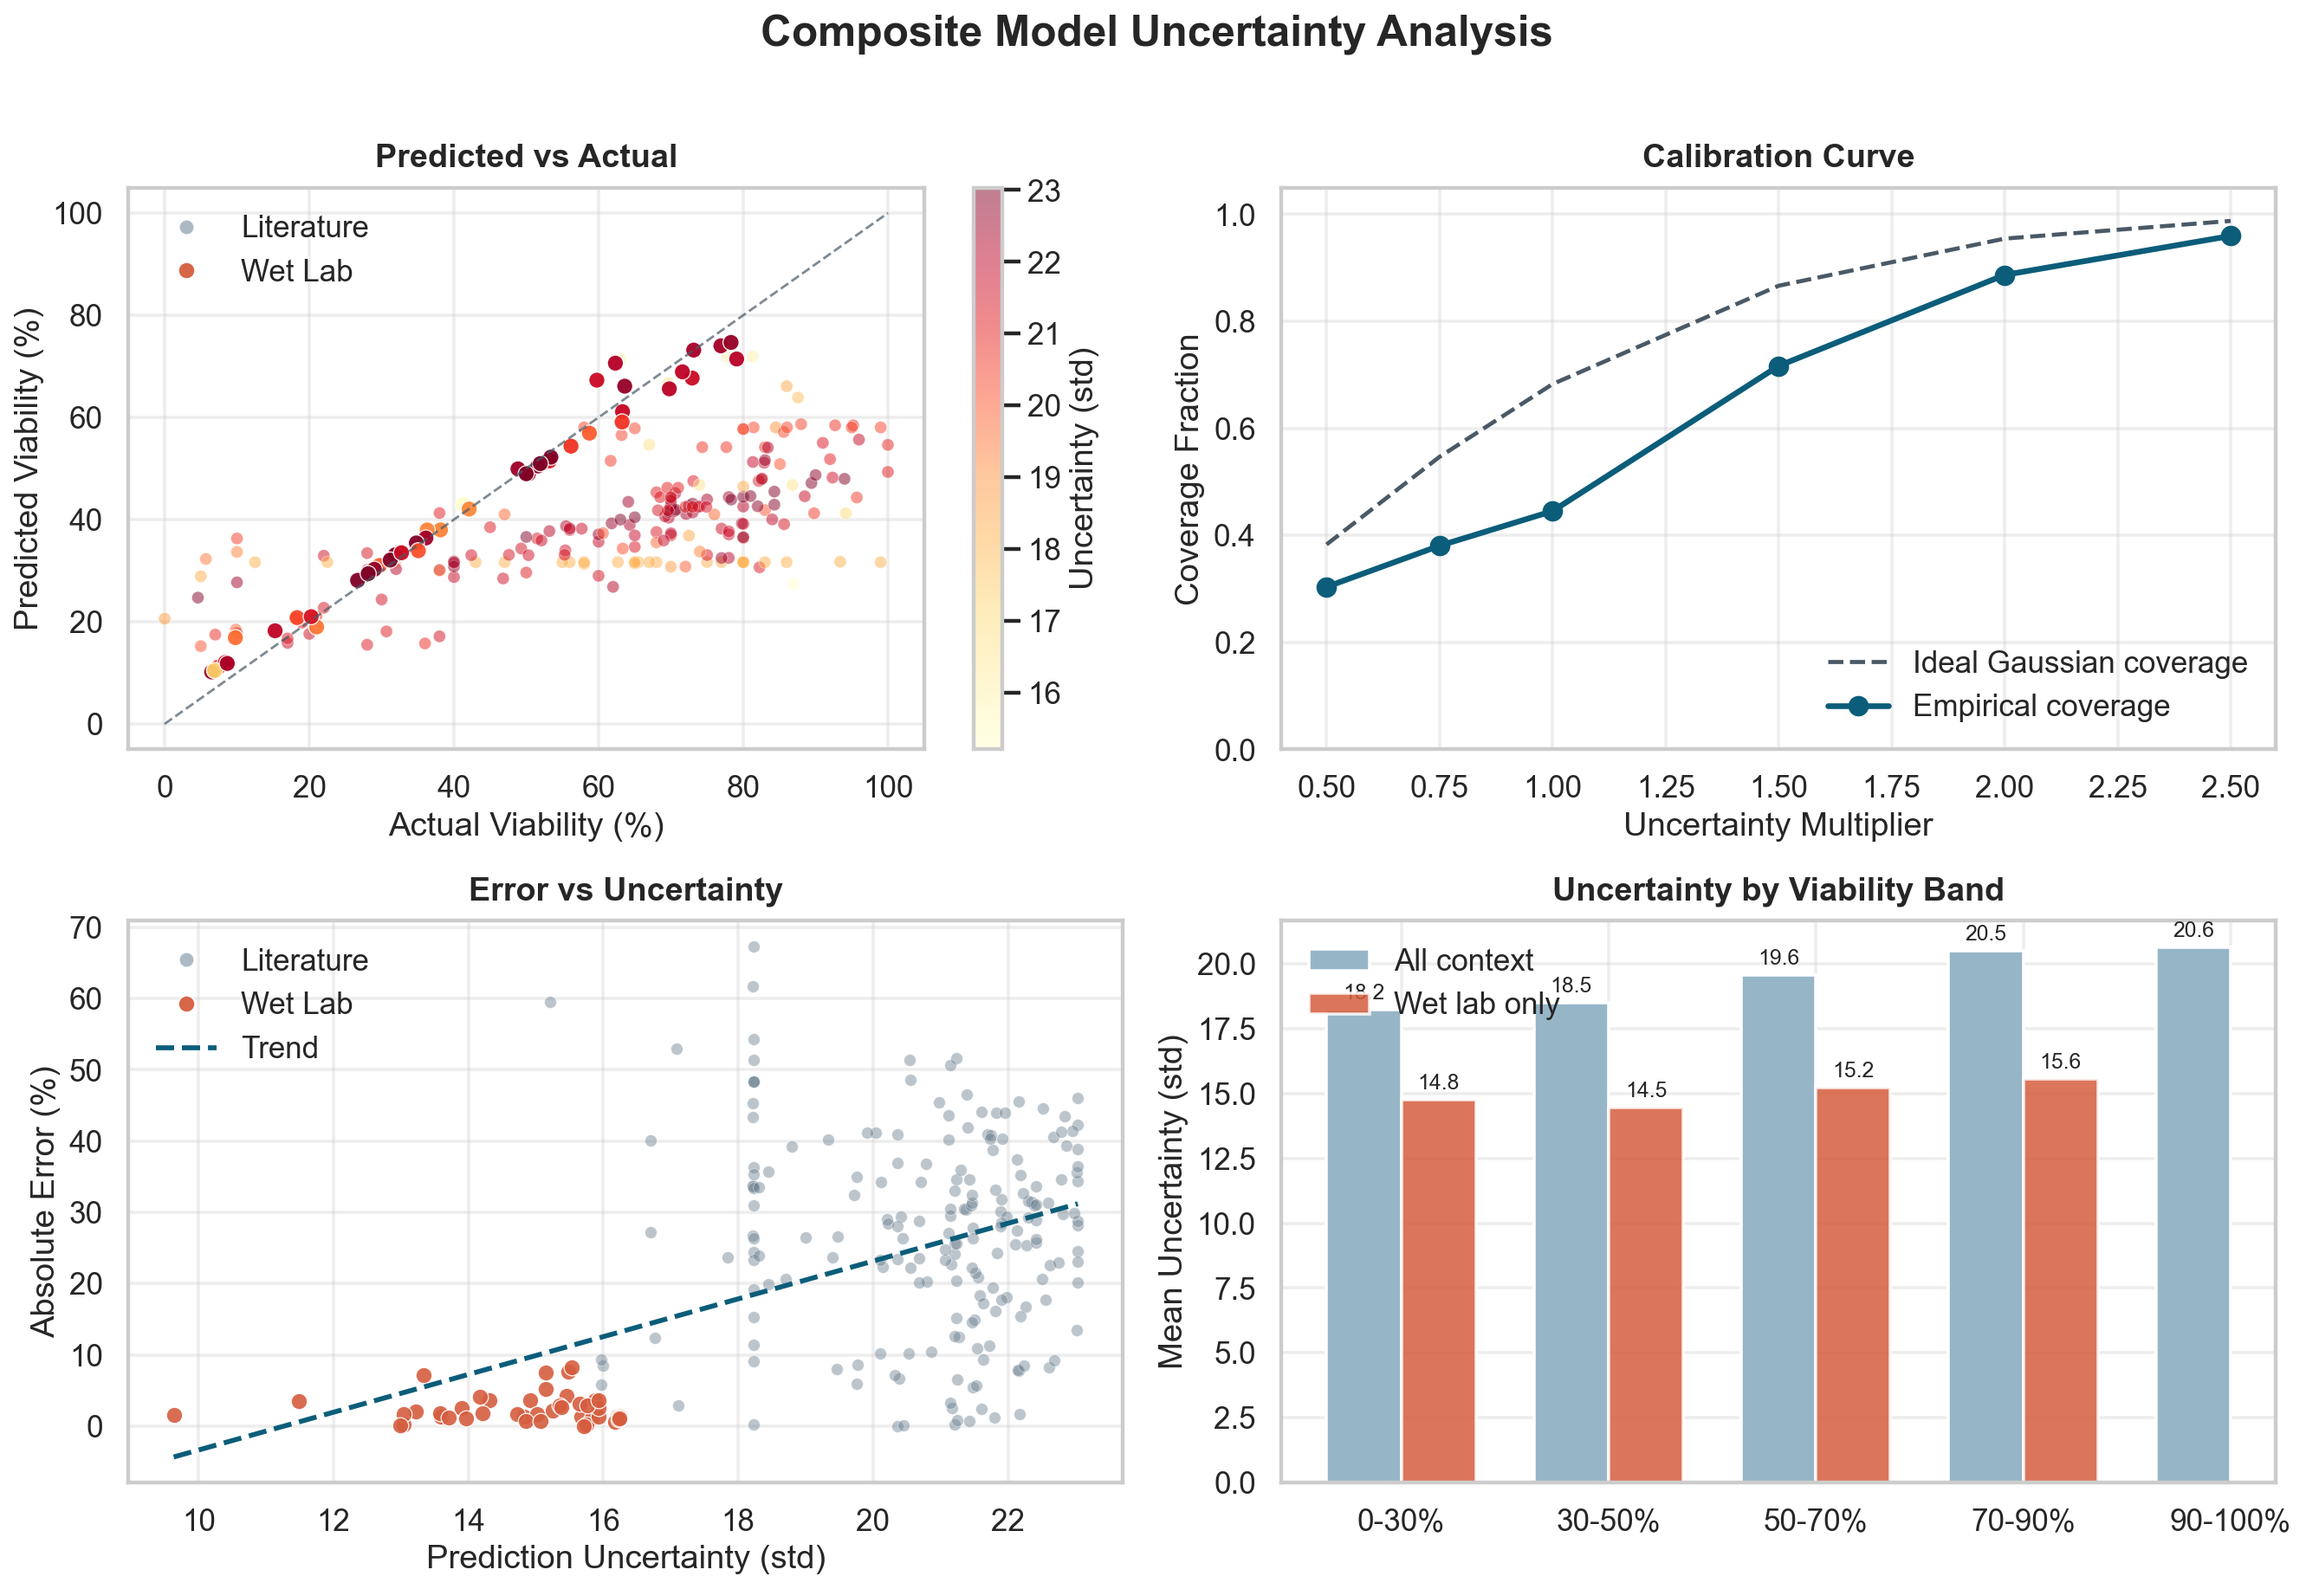
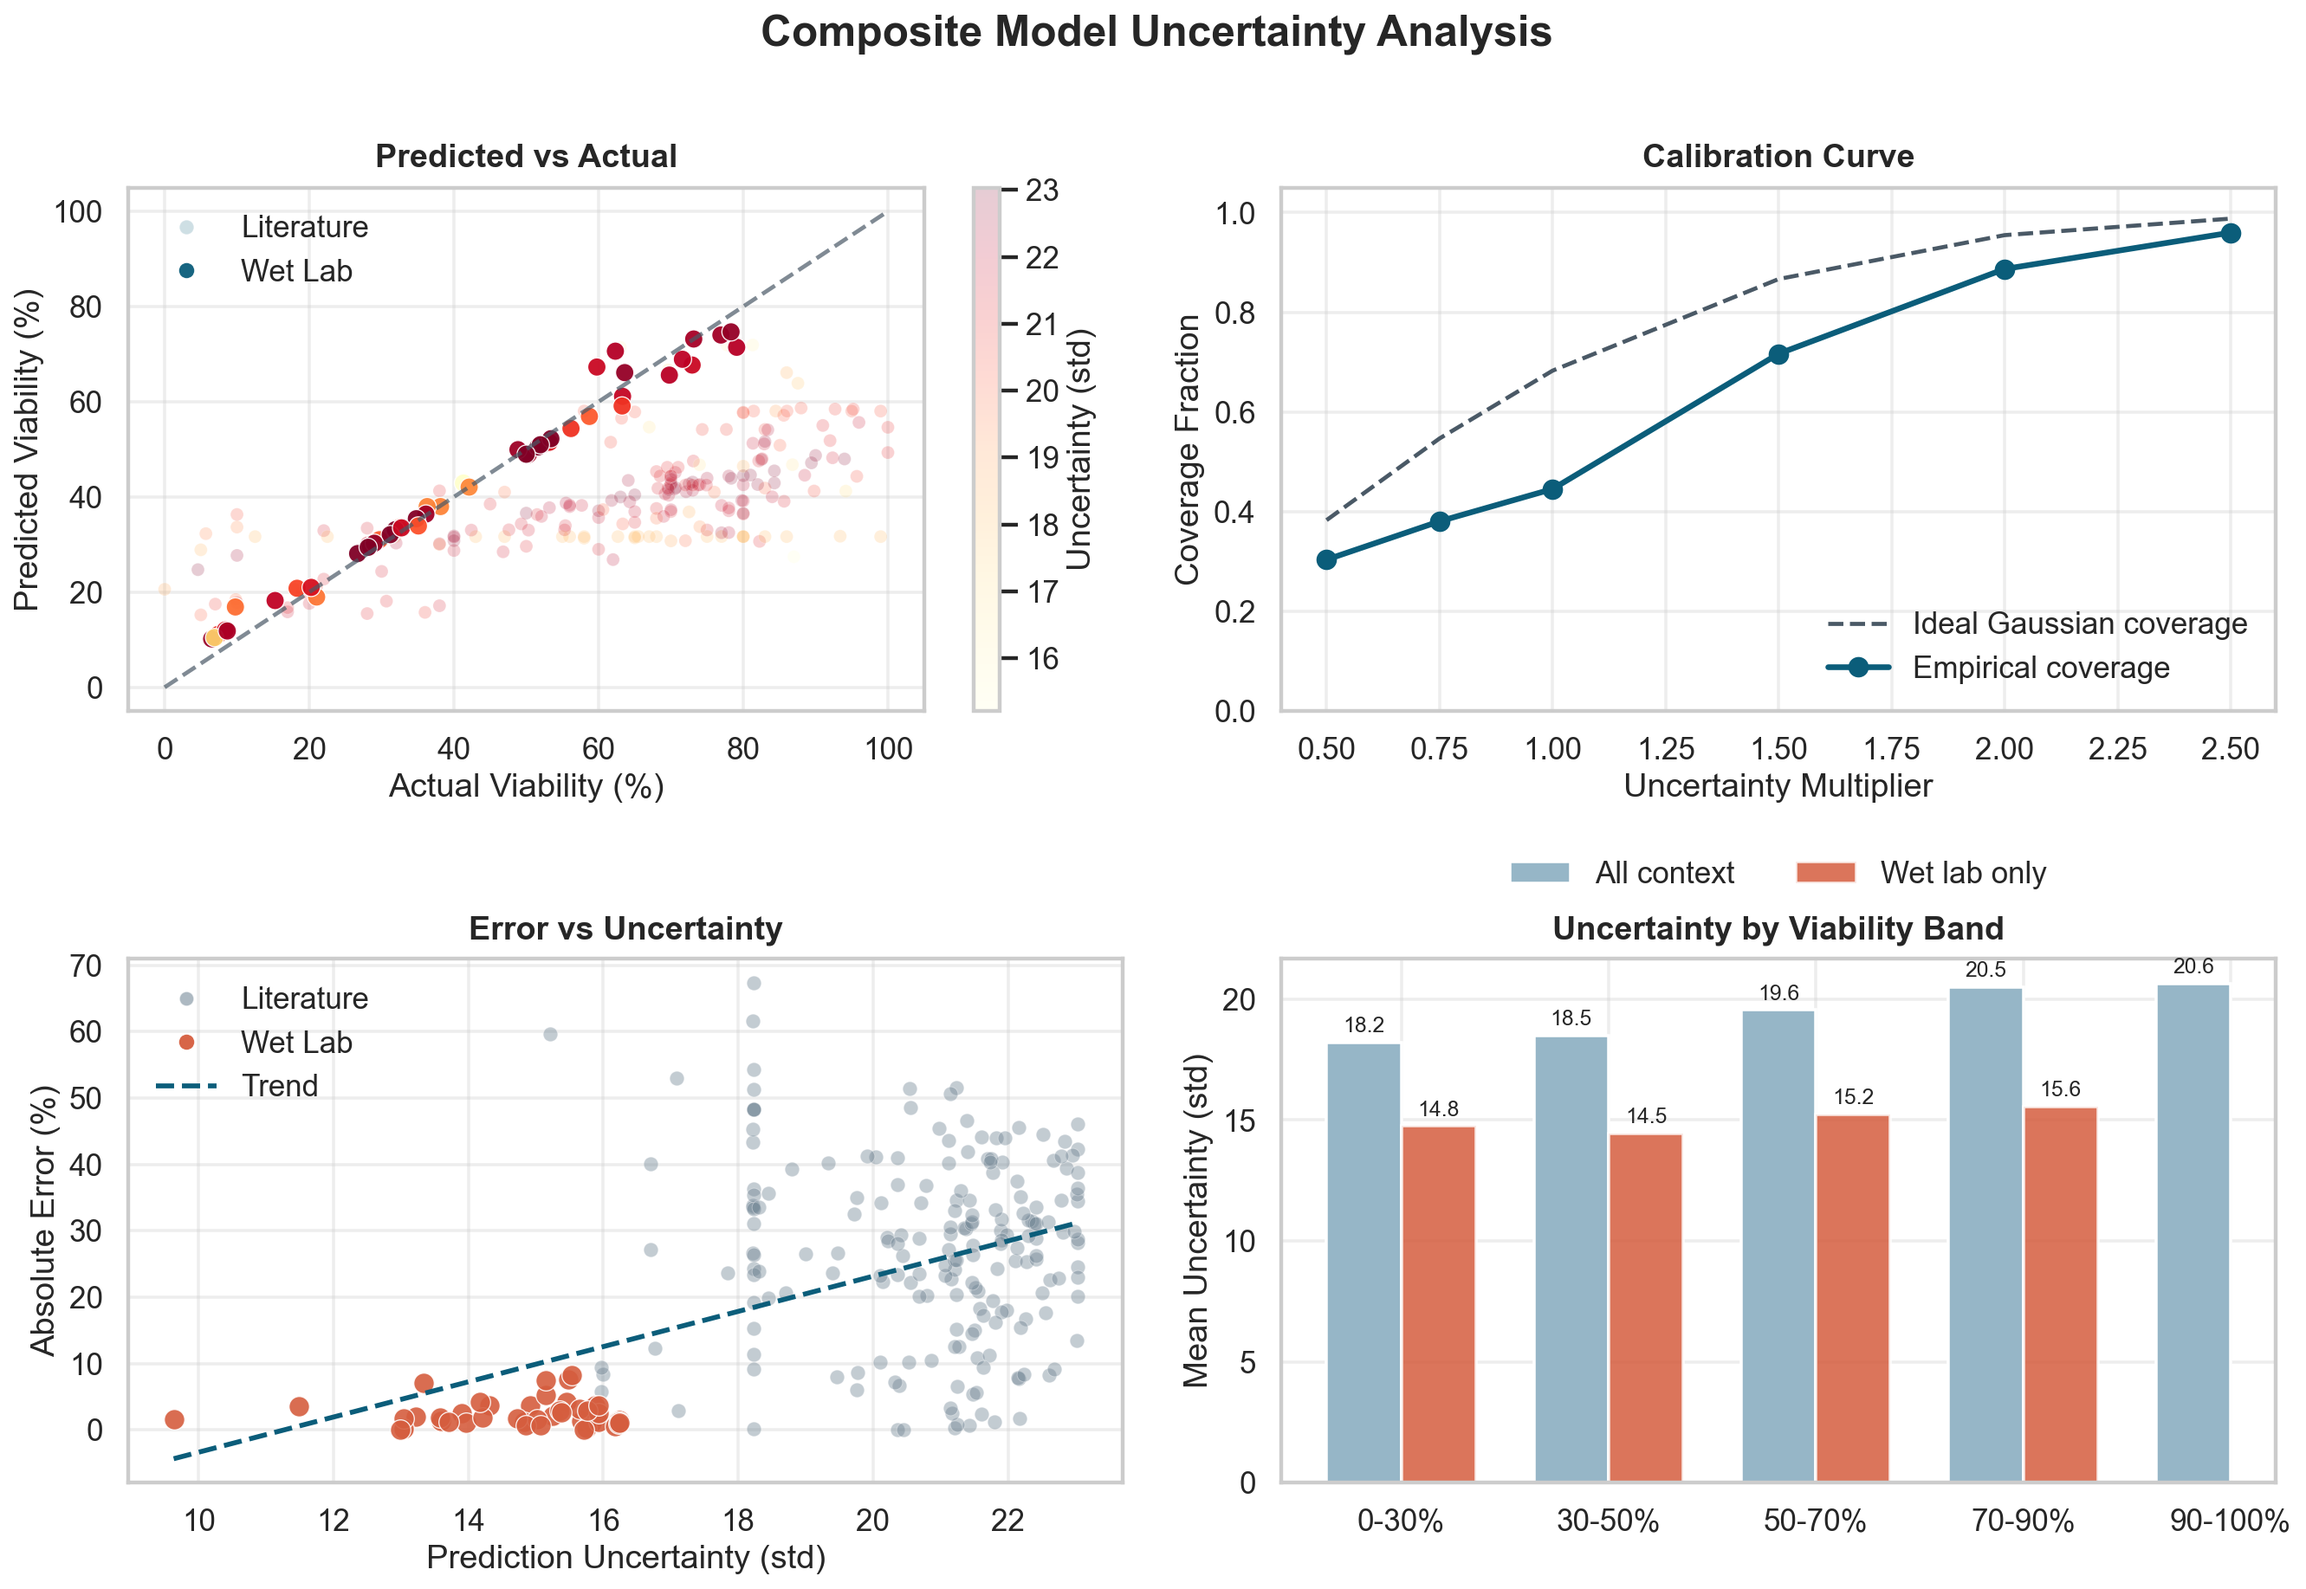
style change and fix

diff --git a/src/06_evaluation_explainability/explainability.py b/src/06_evaluation_explainability/explainability.py
@@ -260,6 +260,17 @@ def source_legend_handles(config: ExplainabilityConfig) -> List[Line2D]:
     ]
 
 
+def alpha_legend_handles(config: ExplainabilityConfig, base_color: Optional[str] = None) -> List[Line2D]:
+    """Legend handles for plots that distinguish sources by alpha rather than color."""
+    color = base_color or config.line_primary
+    return [
+        Line2D([0], [0], marker='o', color='none', markerfacecolor=color,
+               markeredgecolor='white', markeredgewidth=0.5, label='Literature', markersize=7, alpha=0.20),
+        Line2D([0], [0], marker='o', color='none', markerfacecolor=color,
+               markeredgecolor='white', markeredgewidth=0.6, label='Wet Lab', markersize=8, alpha=0.95),
+    ]
+
+
 def weighted_mean(values: np.ndarray, weights: Optional[np.ndarray] = None) -> float:
     """Compute a weighted mean with graceful fallback."""
     values = np.asarray(values, dtype=float)
@@ -363,7 +374,7 @@ def overlay_source_points(ax: plt.Axes, x: np.ndarray, y: np.ndarray, source_df:
             x[masks['literature']],
             y[masks['literature']],
             c=config.color_literature,
-            s=28,
+            s=56,
             alpha=alpha_literature,
             edgecolors='white',
             linewidths=0.35,
@@ -374,7 +385,7 @@ def overlay_source_points(ax: plt.Axes, x: np.ndarray, y: np.ndarray, source_df:
             x[masks['wetlab']],
             y[masks['wetlab']],
             c=config.color_wetlab,
-            s=42,
+            s=84,
             alpha=alpha_wetlab,
             edgecolors='white',
             linewidths=0.55,
@@ -767,9 +778,9 @@ def plot_interaction_contours(model, scaler, X: np.ndarray, feature_names: Seque
 
         support_mask = infer_support_mask_2d(X1, X2, X[:, idx1], X[:, idx2], config)
         contour = ax.contourf(X1, X2, Z, levels=18, cmap=viability_cmap)
-        ax.contour(X1, X2, Z, levels=9, colors='white', linewidths=0.6, alpha=0.22)
+        ax.contour(X1, X2, Z, levels=9, colors='white', linewidths=2, alpha=0.22)
         ax.contour(X1, X2, support_mask.astype(float), levels=[0.5], colors='white',
-                   linewidths=1.1, alpha=0.82, linestyles='--', zorder=5)
+                   linewidths=2, alpha=0.82, linestyles='--', zorder=5)
         plt.colorbar(contour, ax=ax, label='Predicted Viability (%)')
 
         overlay_source_points(ax, X[:, idx1], X[:, idx2], df, config)
@@ -882,9 +893,9 @@ def plot_acquisition_landscape(model, scaler, X: np.ndarray, y: np.ndarray,
             'Static BO Score',
         ),
     ]:
-        ax.contour(X1, X2, surface, levels=9, colors='white', linewidths=0.55, alpha=0.18)
+        ax.contour(X1, X2, surface, levels=9, colors='white', linewidths=2, alpha=0.18)
         ax.contour(X1, X2, support_mask.astype(float), levels=[0.5], colors='white',
-                   linewidths=1.1, alpha=0.82, linestyles='--', zorder=5)
+                   linewidths=2, alpha=0.82, linestyles='--', zorder=5)
         overlay_source_points(ax, X[:, idx1], X[:, idx2], df, config, alpha_literature=0.35, alpha_wetlab=0.9)
         ax.set_xlim(x_min, x_max)
         ax.set_ylim(y_min, y_max)
@@ -896,7 +907,7 @@ def plot_acquisition_landscape(model, scaler, X: np.ndarray, y: np.ndarray,
     best_idx = int(np.argmax(y))
     for ax in axes:
         ax.scatter(X[best_idx, idx1], X[best_idx, idx2], c=config.color_wetlab, s=160,
-                   marker='*', edgecolors='white', linewidths=1.6, zorder=9)
+                   marker='*', edgecolors='white', linewidths=2, zorder=9)
         ax.legend(handles=source_legend_handles(config) + [
             Line2D([0], [0], marker='*', color='none', markerfacecolor=config.color_wetlab,
                    markeredgecolor='white', markeredgewidth=1.2, label='Best observed', markersize=13)
@@ -924,21 +935,21 @@ def plot_uncertainty_analysis(model, scaler, X: np.ndarray, y: np.ndarray,
     fig, axes = plt.subplots(2, 2, figsize=config.figsize_dashboard)
 
     ax = axes[0, 0]
-    ax.plot([0, 100], [0, 100], linestyle='--', color='#4a5966', alpha=0.7, linewidth=1.2)
+    ax.plot([0, 100], [0, 100], linestyle='--', color='#4a5966', alpha=0.7, linewidth=2)
     if masks['literature'].any():
         sc = ax.scatter(y[masks['literature']], y_pred[masks['literature']], c=y_std[masks['literature']],
-                        cmap=config.cmap_uncertainty, s=36, alpha=0.5, edgecolors='white', linewidths=0.35)
+                        cmap=config.cmap_uncertainty, s=40, alpha=0.20, edgecolors='white', linewidths=0.35)
     else:
         sc = ax.scatter(y, y_pred, c=y_std, cmap=config.cmap_uncertainty, s=36, alpha=0.5,
                         edgecolors='white', linewidths=0.35)
     if masks['wetlab'].any():
         ax.scatter(y[masks['wetlab']], y_pred[masks['wetlab']], c=y_std[masks['wetlab']],
-                   cmap=config.cmap_uncertainty, s=62, alpha=0.95, edgecolors='white', linewidths=0.55)
+                   cmap=config.cmap_uncertainty, s=80, alpha=0.95, edgecolors='white', linewidths=0.55)
     plt.colorbar(sc, ax=ax, label='Uncertainty (std)')
     ax.set_xlabel('Actual Viability (%)')
     ax.set_ylabel('Predicted Viability (%)')
     ax.set_title('Predicted vs Actual', fontsize=14 + FONT_BUMP, fontweight='bold', pad=10)
-    ax.legend(handles=source_legend_handles(config), loc='upper left')
+    ax.legend(handles=alpha_legend_handles(config), loc='upper left')
 
     ax = axes[0, 1]
     multipliers = np.array([0.5, 0.75, 1.0, 1.5, 2.0, 2.5])
@@ -955,10 +966,10 @@ def plot_uncertainty_analysis(model, scaler, X: np.ndarray, y: np.ndarray,
     ax = axes[1, 0]
     if masks['literature'].any():
         ax.scatter(y_std[masks['literature']], np.abs(residuals[masks['literature']]),
-                   c=config.color_literature, s=34, alpha=0.45, edgecolors='white', linewidths=0.35)
+                   c=config.color_literature, s=50, alpha=0.4, edgecolors='white', linewidths=0.35)
     if masks['wetlab'].any():
         ax.scatter(y_std[masks['wetlab']], np.abs(residuals[masks['wetlab']]),
-                   c=config.color_wetlab, s=62, alpha=0.9, edgecolors='white', linewidths=0.55)
+                   c=config.color_wetlab, s=100, alpha=0.9, edgecolors='white', linewidths=0.55)
     z = np.polyfit(y_std, np.abs(residuals), 1)
     trend = np.poly1d(z)
     x_line = np.linspace(y_std.min(), y_std.max(), 200)
@@ -995,7 +1006,7 @@ def plot_uncertainty_analysis(model, scaler, X: np.ndarray, y: np.ndarray,
             if np.isfinite(height):
                 ax.text(bar.get_x() + bar.get_width() / 2, height + 0.25, f'{height:.1f}',
                         ha='center', va='bottom', fontsize=8.5 + FONT_BUMP)
-    ax.legend(loc='upper left')
+    ax.legend(loc='upper center', bbox_to_anchor=(0.5, 1.24), ncol=2)
 
     model_label = 'Composite' if is_composite else 'GP'
     plt.suptitle(f'{model_label} Model Uncertainty Analysis', fontsize=19 + FONT_BUMP, fontweight='bold', y=0.985)
@@ -1032,29 +1043,30 @@ def plot_support_diagnostics(X: np.ndarray, y: np.ndarray, feature_names: Sequen
         x_min, x_max = quantile_range(values, config, weights=weights)
         literature_values = values[masks['literature']]
         wetlab_values = values[masks['wetlab']]
+        support_color = config.line_primary
         if HAS_SEABORN:
-            sns.kdeplot(x=literature_values, ax=ax, fill=True, alpha=0.22,
-                        color=config.color_literature, linewidth=1.2, label='Literature')
+            sns.kdeplot(x=literature_values, ax=ax, fill=True, alpha=0.20,
+                        color=support_color, linewidth=1.2, label='Literature')
             if len(wetlab_values) >= 2:
-                sns.kdeplot(x=wetlab_values, ax=ax, fill=True, alpha=0.20,
-                            color=config.color_wetlab, linewidth=1.2, label='Wet Lab')
+                sns.kdeplot(x=wetlab_values, ax=ax, fill=True, alpha=0.95,
+                            color=support_color, linewidth=1.2, label='Wet Lab')
         else:
-            ax.hist(literature_values, bins=24, density=True, alpha=0.25,
-                    color=config.color_literature, label='Literature')
+            ax.hist(literature_values, bins=24, density=True, alpha=0.20,
+                    color=support_color, label='Literature')
             if len(wetlab_values) >= 1:
-                ax.hist(wetlab_values, bins=min(18, max(6, len(wetlab_values))), density=True, alpha=0.22,
-                        color=config.color_wetlab, label='Wet Lab')
+                ax.hist(wetlab_values, bins=min(18, max(6, len(wetlab_values))), density=True, alpha=0.95,
+                        color=support_color, label='Wet Lab')
         ax.set_xlim(x_min, x_max)
         ax.set_xlabel(f'{clean_feature_name(full)} ({get_unit(full)})')
         ax.set_ylabel('Observed density')
         ax.set_title(f'Support: {clean_feature_name(full)}', fontsize=13 + FONT_BUMP, fontweight='bold', pad=10)
-        ax.legend(loc='upper right')
+        ax.legend(handles=alpha_legend_handles(config, base_color=support_color), loc='upper right')
 
-    scatter = ax3.scatter(X[:, idx1], X[:, idx2], c=y, cmap=config.cmap_viability, s=30,
-                          alpha=0.45, edgecolors='white', linewidths=0.35)
+    scatter = ax3.scatter(X[:, idx1], X[:, idx2], c=y, cmap=config.cmap_viability, s=100,
+                          alpha=0.20, edgecolors='white', linewidths=0.35)
     if masks['wetlab'].any():
         ax3.scatter(X[masks['wetlab'], idx1], X[masks['wetlab'], idx2], c=y[masks['wetlab']],
-                    cmap=config.cmap_viability, s=70, alpha=0.95, edgecolors='white', linewidths=0.6)
+                    cmap=config.cmap_viability, s=180, alpha=0.95, edgecolors='white', linewidths=0.6)
     x_min, x_max = quantile_range(X[:, idx1], config, weights=weights)
     y_min, y_max = quantile_range(X[:, idx2], config, weights=weights)
     ax3.set_xlim(x_min, x_max)
@@ -1064,7 +1076,7 @@ def plot_support_diagnostics(X: np.ndarray, y: np.ndarray, feature_names: Sequen
     ax3.set_ylabel(f'{clean_feature_name(full2)} ({get_unit(full2)})')
     ax3.set_title(f'Observed Support Map: {clean_feature_name(full1)} × {clean_feature_name(full2)}',
                   fontsize=14 + FONT_BUMP, fontweight='bold', pad=10)
-    ax3.legend(handles=source_legend_handles(config), loc='upper right')
+    ax3.legend(handles=alpha_legend_handles(config), loc='upper right')
 
     plt.suptitle('Support Diagnostics', fontsize=19 + FONT_BUMP, fontweight='bold', y=0.985)
     plt.tight_layout(rect=(0, 0, 1, 0.975))
